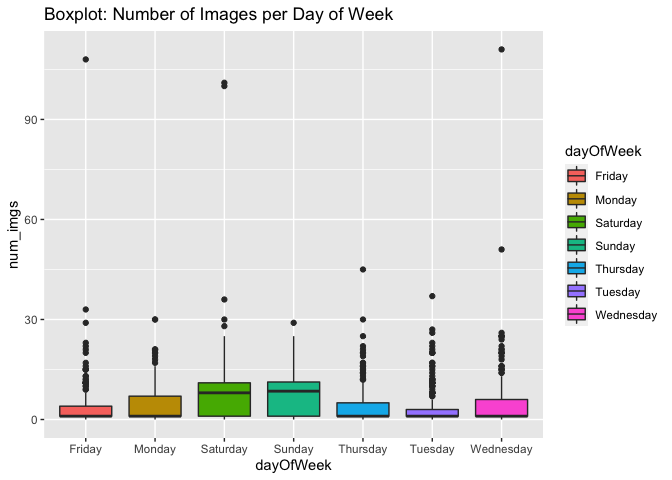
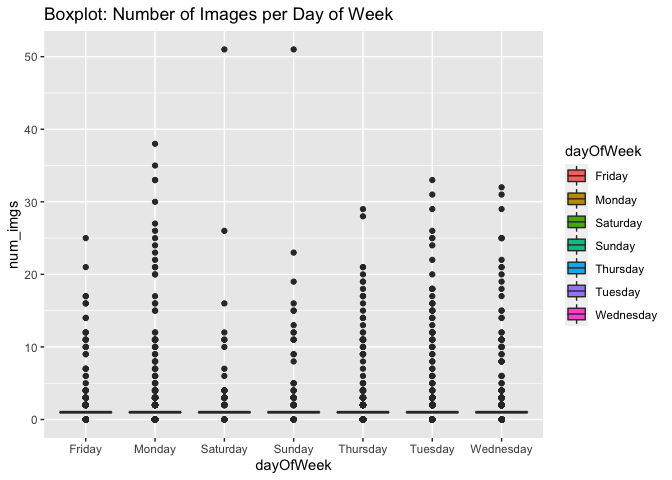
getting closer to final commit

diff --git a/README.md b/README.md
@@ -8,6 +8,7 @@ Owen Snyder and Ashlee McKeon
     -   [Variable Selection](#variable-selection)
     -   [Methods](#methods)
     -   [Packages](#packages)
+    -   [Automation Code](#automation-code)
 -   [Read in Data](#read-in-data)
 -   [Create New Variables](#create-new-variables)
     -   [Filter Data by Channel](#filter-data-by-channel)
@@ -36,7 +37,7 @@ Render Function
 rmarkdown::render("Project2McKeonSnyder.Rmd",
                   output_format = "github_document",
                   output_file = "README.md",
-                  params = list(dataChannel = "Lifestyle"),
+                  params = list(dataChannel = "Business"),
                   output_options = list(
                     html_preview = FALSE, toc = TRUE, toc_depth = 2, toc_float = TRUE)
 )
@@ -66,8 +67,8 @@ Because of the large variety of variables this data set includes, we
 decided to only consider a subset of the variables to work with.
 However, it is important to note one specific set of variables we will
 be basing our analysis on. We will be starting with the
-\*data_channel_is\_\*\* variables to see if they have any relation to
-the number of shares and the rest of the variables we select.
+*data_channel_is\_* \* variables to see if they have any relation to the
+number of shares and the rest of the variables we select.
 
 The following our are variables of interest:
 
@@ -151,6 +152,8 @@ library(caret)
 library(rmarkdown)
 library(knitr)
 ```
+
+## Automation Code
 
 ``` r
 ## just eval=FALSE-ing this so i can commit and check github pages
@@ -299,7 +302,7 @@ newsTrain %>% summarise(avgShares = mean(shares), medianShares = median(shares),
     ## # A tibble: 1 × 3
     ##   avgShares medianShares sdShares
     ##       <dbl>        <dbl>    <dbl>
-    ## 1     3645.         1700    8286.
+    ## 1     3266.         1400   17569.
 
 # Contingency Tables
 
@@ -525,16 +528,16 @@ lmFit1
 
     ## Linear Regression 
     ## 
-    ## 1472 samples
+    ## 4382 samples
     ##    7 predictor
     ## 
     ## Pre-processing: centered (7), scaled (7) 
     ## Resampling: Cross-Validated (5 fold) 
-    ## Summary of sample sizes: 1178, 1177, 1180, 1177, 1176 
+    ## Summary of sample sizes: 3505, 3506, 3506, 3505, 3506 
     ## Resampling results:
     ## 
-    ##   RMSE      Rsquared     MAE     
-    ##   7844.875  0.004304763  3287.255
+    ##   RMSE      Rsquared    MAE     
+    ##   13297.13  0.01107824  3044.896
     ## 
     ## Tuning parameter 'intercept' was held constant at a value of TRUE
 
@@ -564,16 +567,16 @@ lmFit2
 
     ## Linear Regression 
     ## 
-    ## 1472 samples
+    ## 4382 samples
     ##    7 predictor
     ## 
     ## Pre-processing: centered (7), scaled (7) 
     ## Resampling: Cross-Validated (5 fold) 
-    ## Summary of sample sizes: 1177, 1179, 1177, 1177, 1178 
+    ## Summary of sample sizes: 3505, 3506, 3506, 3505, 3506 
     ## Resampling results:
     ## 
     ##   RMSE      Rsquared     MAE     
-    ##   13945.24  0.001337606  3770.275
+    ##   15406.98  0.003358961  3067.576
     ## 
     ## Tuning parameter 'intercept' was held constant at a value of TRUE
 
@@ -604,20 +607,20 @@ rfFit
 
     ## Random Forest 
     ## 
-    ## 1472 samples
+    ## 4382 samples
     ##    7 predictor
     ## 
     ## Pre-processing: centered (7), scaled (7) 
     ## Resampling: Cross-Validated (5 fold) 
-    ## Summary of sample sizes: 1177, 1178, 1177, 1178, 1178 
+    ## Summary of sample sizes: 3506, 3506, 3505, 3505, 3506 
     ## Resampling results across tuning parameters:
     ## 
     ##   mtry  RMSE      Rsquared     MAE     
-    ##   1     7510.391  0.007825667  3262.997
-    ##   2     7668.288  0.005315095  3347.367
-    ##   3     7872.844  0.004014322  3431.127
-    ##   4     8061.319  0.003923640  3476.012
-    ##   5     8170.469  0.003524707  3506.216
+    ##   1     15852.15  0.009593264  3083.503
+    ##   2     16280.17  0.006392790  3241.602
+    ##   3     16754.66  0.003517205  3370.185
+    ##   4     17254.25  0.002214555  3467.356
+    ##   5     17823.52  0.001046437  3522.945
     ## 
     ## RMSE was used to select the optimal model using the smallest value.
     ## The final value used for the model was mtry = 1.
@@ -659,37 +662,37 @@ boostFit
 
     ## Stochastic Gradient Boosting 
     ## 
-    ## 1472 samples
+    ## 4382 samples
     ##    7 predictor
     ## 
     ## Pre-processing: centered (7), scaled (7) 
     ## Resampling: Cross-Validated (5 fold) 
-    ## Summary of sample sizes: 1178, 1178, 1178, 1177, 1177 
+    ## Summary of sample sizes: 3506, 3506, 3504, 3506, 3506 
     ## Resampling results across tuning parameters:
     ## 
     ##   interaction.depth  n.trees  RMSE      Rsquared     MAE     
-    ##   1                   50      7840.318  0.014483561  3312.728
-    ##   1                  100      7834.560  0.016199525  3328.946
-    ##   1                  150      7858.220  0.009631089  3289.617
-    ##   1                  200      7836.751  0.006010009  3282.375
-    ##   2                   50      7872.319  0.012205607  3318.403
-    ##   2                  100      7851.089  0.005911130  3314.017
-    ##   2                  150      7898.734  0.002608779  3328.601
-    ##   2                  200      7967.227  0.001915455  3357.738
-    ##   3                   50      7882.633  0.005012197  3314.264
-    ##   3                  100      8026.152  0.003213168  3386.804
-    ##   3                  150      8166.095  0.002288559  3513.835
-    ##   3                  200      8172.084  0.003020428  3578.122
-    ##   4                   50      7886.029  0.016815656  3315.103
-    ##   4                  100      8053.739  0.005628452  3471.359
-    ##   4                  150      8181.416  0.005564406  3565.702
-    ##   4                  200      8273.670  0.003837138  3658.510
+    ##   1                   50      15933.95  0.002746294  3176.571
+    ##   1                  100      15947.57  0.003153386  3192.708
+    ##   1                  150      16036.57  0.002875812  3208.230
+    ##   1                  200      16070.55  0.002921508  3203.883
+    ##   2                   50      16226.45  0.002262647  3243.263
+    ##   2                  100      16519.46  0.001959930  3321.596
+    ##   2                  150      16861.86  0.002420765  3394.099
+    ##   2                  200      17202.10  0.001949194  3451.658
+    ##   3                   50      16311.34  0.003409137  3307.415
+    ##   3                  100      16620.73  0.002897876  3379.883
+    ##   3                  150      16875.56  0.002409808  3475.924
+    ##   3                  200      17271.66  0.001814709  3614.054
+    ##   4                   50      16562.61  0.002223651  3343.905
+    ##   4                  100      16898.38  0.002098580  3491.637
+    ##   4                  150      17060.05  0.001776439  3579.774
+    ##   4                  200      17363.61  0.001829817  3699.735
     ## 
     ## Tuning parameter 'shrinkage' was held constant at a value of 0.1
     ## Tuning parameter 'n.minobsinnode' was
     ##  held constant at a value of 10
     ## RMSE was used to select the optimal model using the smallest value.
-    ## The final values used for the model were n.trees = 100, interaction.depth = 1, shrinkage = 0.1 and
+    ## The final values used for the model were n.trees = 50, interaction.depth = 1, shrinkage = 0.1 and
     ##  n.minobsinnode = 10.
 
 ``` r
@@ -737,7 +740,7 @@ all.RMSE
 ```
 
     ##   Full Linear Regression Polynomial Regression Random Forest Boosted Tree
-    ## 1                10145.6              10125.11      10169.25     10322.33
+    ## 1                5883.52              5822.586      6287.007     6315.069
 
 ``` r
 ## use which.min to find the element in the data frame with the lowest RMSE
